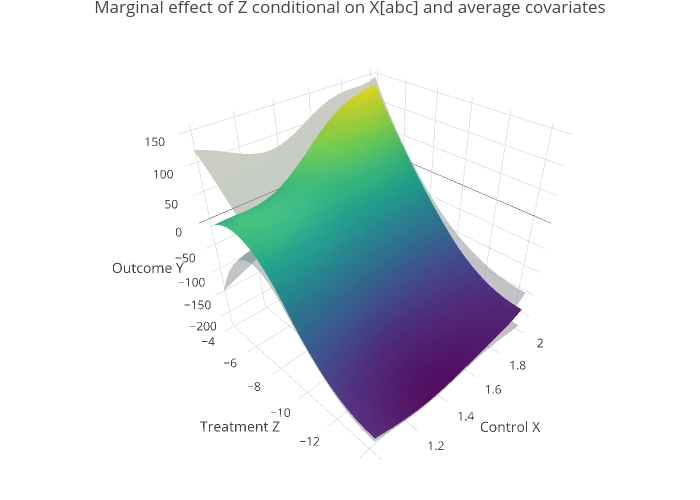
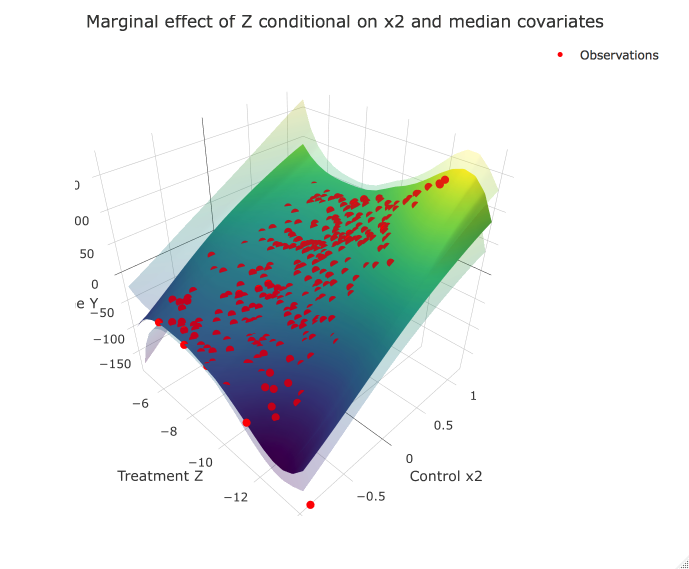
New 0.2.0 release that includes the updated plot function and multi-dimensional X. Updated examples.

diff --git a/README.md b/README.md
@@ -4,11 +4,11 @@ Package for a varying-coefficients spline regression with GP-regularization of t
 ## Installation
 It can be installed using (requires appropriate c++ compilers, see the documentation of ```Rcpp```):
 ```
-install.packages("https://github.com/mazphilip/GPspline/raw/master/builds/GPspline_0.1.4.tar.gz", repos = NULL, type = "source")
+install.packages("https://github.com/mazphilip/GPspline/raw/master/builds/GPspline_0.2.0.tar.gz", repos = NULL, type = "source")
 ```
 
 ## Theory
-The intended use case is a (for now) single dimensional set of continuous variable(s) Z whose marginal (predictive/causal) effect we are interested. The other set, the control variables X or "confounders" for causal inference, are used to make the function approximation more accurate and for the causal effects control for confounding. Using Gaussian processes, we can use differentiable spline bases to obtain the marginal effect.
+The intended use case is a (for now) single dimensional set of a continuous variable Z whose marginal (predictive/causal) effect we are interested. The other set, the control variables X or "confounders" for causal inference, are used to make the function approximation more accurate and for the causal effects control for confounding. Using Gaussian processes, we can use differentiable spline bases to obtain the marginal effect. 
 
 Formally,
 ```
@@ -20,23 +20,32 @@ We can write the model in reduced form ```y = f(x,z) + eps``` with ```f ~ GP(mu,
 ```
 K_r(i,j) = sum_{l=1}^B K_{g_l}(x_i,x_j) b_l(z_i) b_l(z_j).
 ```
-This constitutes a proper kernel (sum of a product of kernels) and we can use standard Gaussian process inference methods to obtain the posterior distribution using empirical Bayes. Note that the spline knots are fixed in number and location.
+This constitutes a proper covariance Mercer kernel (sum of a product of kernels) and we can use standard Gaussian process inference methods to obtain the posterior distribution, i.e. empirical Bayes. Note that the spline knots are fixed in number and location.
 
 ## Example
 ```
 library(GPspline)
 set.seed(1234)
-n2 = 300
-X2 = matrix(runif(n2, min = 1, max = 2))
-Z2 = rnorm(n2, exp(X2)-14, 1)
-y2_true = as.matrix(72 + 3 * sqrt(X2) * ((Z2+8)^2 - 2*Z2))
-Y2 = rnorm(n2, mean = y2_true, sd = 1)
-my.GPS <- GPspline(Y2,X2,Z2,myoptim="GD",learning_rate = 0.0001,spline="ns",n.knots=1)
+n2 <- 300
+df <- data.frame(x = runif(n2, min = 1, max = 2))
+df$x2 <- runif(n2, min = -1, max = 1)
+df$z = rnorm(n2, exp(df$x)-14, 1)
+y_truefun <- function(x,z) {as.matrix(sqrt(x[,1]) + x[,2] *3 * ((z+8)^2 - 2*z))}
+y2_true <- y_truefun(df[,c("x","x2")],df$z)
+df$y <- rnorm(n2, mean = y2_true, sd = 1)
+my.GPS <- GPspline(y ~ x + x2 | z,data=df,myoptim="GD",learning_rate = 0.0001,spline="B",n.knots=6)
 my.pred <- predict(my.GPS)
-plot(Y2,my.pred$map); abline(0,1,lty=2)
-plot(my.GPS,marginal=TRUE)
+plot(df$y,my.pred$map); abline(0,1,lty=2)
+#prediction of the curve as contour
+plot(my.GPS,"x2",marginal=FALSE,show.observations=TRUE)
+#prediction of the curve in 3D
+plot(my.GPS,"x2",marginal=FALSE,plot3D=TRUE,show.observations=TRUE)
+
+#difference to the true marginal curve
+marg_truefun <- function(x,z) {as.matrix(sqrt(x[,1]) + x[,2] *3 * (2*(z+8) - 2))}
+plot(my.GPS,"x2",marginal=TRUE,show.observations=TRUE,truefun=marg_truefun)
 ```
 
 ![](example/readme.png)
 
-Interactive version: https://plot.ly/~mazphilip/1/
+Interactive version: https://plot.ly/~mazphilip/3/
